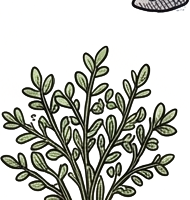
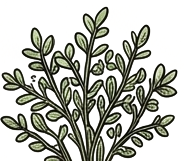
fix: recortes de sprites con bleed + jerarquia de tamano arbol/arbusto/cobertura
Diego reportó con capturas reales de la vista micro dos problemas
concretos sobre el fix de flora recién mergeado (commit b58fe68):

1. "el sprite de la hierba del desierto no se ha recortado bien, y hay
   más sprites mal recortados" -- confirmado: 8 de los 20 sprites
   nuevos (arbusto_desertico_1/2, hierba_desertica_2, hierba_artica_1/2,
   arbusto_artico_1, roble_1/2) llevaban fragmentos de elementos vecinos
   del sheet fuente (flores, una roca, un tocón) que el matte por
   distancia-a-blanco no eliminó del todo -- ya señalado en el propio
   proceso de extracción de la sesión anterior pero no corregido antes
   de mergear. Re-recortados con límites más ajustados, verificados uno
   a uno (los 20 ficheros, no solo los 8 sospechosos).

2. "los árboles tienen el mismo tamaño que los arbustos... hay tanto
   profusión de flora que no se ve nada, no hay zonas sin vegetación
   densa" -- causa real: TODA la flora compartía un único base:1.4 fijo
   en dibujarStampsRelieveYFlora (solo la etapa de crecimiento variaba
   la escala) -- funcionaba mientras "flora" eran solo manzano/cactus
   de porte similar, pero con el catálogo ampliado un pino maduro salía
   del mismo tamaño que un arbusto_artico maduro. BASE_FLORA_POR_ESPECIE
   reemplaza el 1.4 fijo con 3 categorías (árbol 1.4 / arbusto 0.75 /
   cobertura de suelo 0.45), reutilizando la misma distinción que ya
   hace config/flora.yaml (compite_espacio_fisico + huella_m2) en vez
[…]

diff --git a/presentacion/vista_web.py b/presentacion/vista_web.py
@@ -438,14 +438,54 @@ HTML_VISOR = """<!DOCTYPE html>
                    'muerto': 0.899 },
     };
 
-    // Color por especie de planta (config/constantes.yaml, flora.especies --
-    // exactamente estas cinco existen hoy en el catalogo, ninguna inventada).
+    // Color por especie de planta (config/constantes.yaml, flora.especies) --
+    // solo cubre las especies que todavia pueden caer en el vectorial de
+    // dibujarVegetacion() (sin sprite propio, hoy solo helecho); el resto
+    // ya tiene sprite real (ver presentacion/assets/README.md) y nunca
+    // llega a leer esta tabla. Sin entrada, cae al gris-verde por defecto
+    // ([90,110,70]) -- no hace falta una entrada por cada una de las 15
+    // especies del catalogo, solo por las que de verdad pueden usarla.
     const COLOR_ESPECIE = {
       'manzano':          [61, 92, 46],
       'hierba_silvestre': [107, 138, 66],
       'cactus':           [92, 122, 72],
       'liquen':           [138, 148, 108],
       'musgo':            [58, 84, 56],
+    };
+
+    // (2026-09-03, correccion real -- Diego con capturas: "los arboles
+    // tienen el mismo tamano que los arbustos") -- BASE_FLORA_POR_ESPECIE
+    // desacopla el tamano de render de la etapa de crecimiento (que ya
+    // aporta su propio factor 0.4-1.0 en escala, ver mas abajo). Antes
+    // TODA la flora compartia base:1.4 -- funcionaba mientras "flora" solo
+    // eran manzano/cactus (ambos de porte similar); con el catalogo
+    // ampliado (10 especies nuevas, 2026-09-03) un pino maduro y un
+    // arbusto_artico maduro salian identicos de grandes. Tres categorias,
+    // reutilizando la MISMA distincion que ya hace config/flora.yaml para
+    // el espacio fisico (compite_espacio_fisico + huella_m2 por especie) --
+    // no una escala inventada de cero: arbol (huella_m2 grande, 4-5) >
+    // arbusto (huella_m2 pequena, 1-2.2, o cactus sin huella pero con
+    // porte real) > cobertura de suelo (sin huella_m2, compite_espacio_
+    // fisico:false). PROVISIONAL, sin calibrar contra el harness completo.
+    const BASE_FLORA_ARBOL = 1.4;
+    const BASE_FLORA_ARBUSTO = 0.75;
+    const BASE_FLORA_COBERTURA = 0.45;
+    const BASE_FLORA_POR_ESPECIE = {
+      manzano: BASE_FLORA_ARBOL,
+      roble: BASE_FLORA_ARBOL,
+      pino: BASE_FLORA_ARBOL,
+      cactus: BASE_FLORA_ARBUSTO,
+      arbusto_espinoso: BASE_FLORA_ARBUSTO,
+      arbusto_desertico: BASE_FLORA_ARBUSTO,
+      arbusto_montano: BASE_FLORA_ARBUSTO,
+      arbusto_artico: BASE_FLORA_ARBUSTO,
+      hierba_silvestre: BASE_FLORA_COBERTURA,
+      liquen: BASE_FLORA_COBERTURA,
+      musgo: BASE_FLORA_COBERTURA,
+      flor_silvestre: BASE_FLORA_COBERTURA,
+      hierba_desertica: BASE_FLORA_COBERTURA,
+      hierba_artica: BASE_FLORA_COBERTURA,
+      helecho: BASE_FLORA_COBERTURA,
     };
 
     let pergaminoCache = null;   // canvas offscreen con grano, cacheado por semilla+tamano
@@ -1063,17 +1103,22 @@ HTML_VISOR = """<!DOCTYPE html>
                 img, ordenY: baseY,
                 cx: cxBase + (hash2(x, y, 94) - 0.5) * tam * 0.5,
                 baseY,
-                // (2026-09-03) base 1.0 -> 1.4 -- feedback real de Diego:
-                // un arbol maduro debe verse claramente mas grande que un
-                // lobo (el mayor de los depredadores). Con base 1.0 un
-                // arbol maduro ya salia ~1.9x un lobo en idle (1.0*tam
-                // vs ~0.52*tam), pero un arbol JOVEN (etapa baja, escala
-                // hasta 0.4) se quedaba mas pequeno que el propio lobo --
-                // con base 1.4, un brote (escala 0.4) sale ~0.56*tam
-                // (similar a un lobo adulto) y un arbol maduro (escala
-                // 1.0) sale 1.4*tam (~2.7x un lobo) -- jerarquia
+                // (2026-09-03) base 1.0 -> 1.4 para arbol -- feedback real
+                // de Diego: un arbol maduro debe verse claramente mas
+                // grande que un lobo (el mayor de los depredadores). Con
+                // base 1.0 un arbol maduro ya salia ~1.9x un lobo en idle
+                // (1.0*tam vs ~0.52*tam), pero un arbol JOVEN (etapa baja,
+                // escala hasta 0.4) se quedaba mas pequeno que el propio
+                // lobo -- con base 1.4, un brote (escala 0.4) sale
+                // ~0.56*tam (similar a un lobo adulto) y un arbol maduro
+                // (escala 1.0) sale 1.4*tam (~2.7x un lobo) -- jerarquia
                 // razonada, PROVISIONAL, sin calibrar contra el harness.
-                escala: 0.4 + c.planta.etapa * 0.6, base: 1.4,
+                // (2026-09-03, segunda correccion -- Diego con capturas:
+                // "los arboles tienen el mismo tamano que los arbustos")
+                // BASE_FLORA_POR_ESPECIE reemplaza el 1.4 fijo -- ver su
+                // comentario mas arriba para la jerarquia completa.
+                escala: 0.4 + c.planta.etapa * 0.6,
+                base: BASE_FLORA_POR_ESPECIE[claveEspecie.replace(/_fruto$|_brote$|_seco$/, '')] || BASE_FLORA_ARBUSTO,
               });
             }
           }
